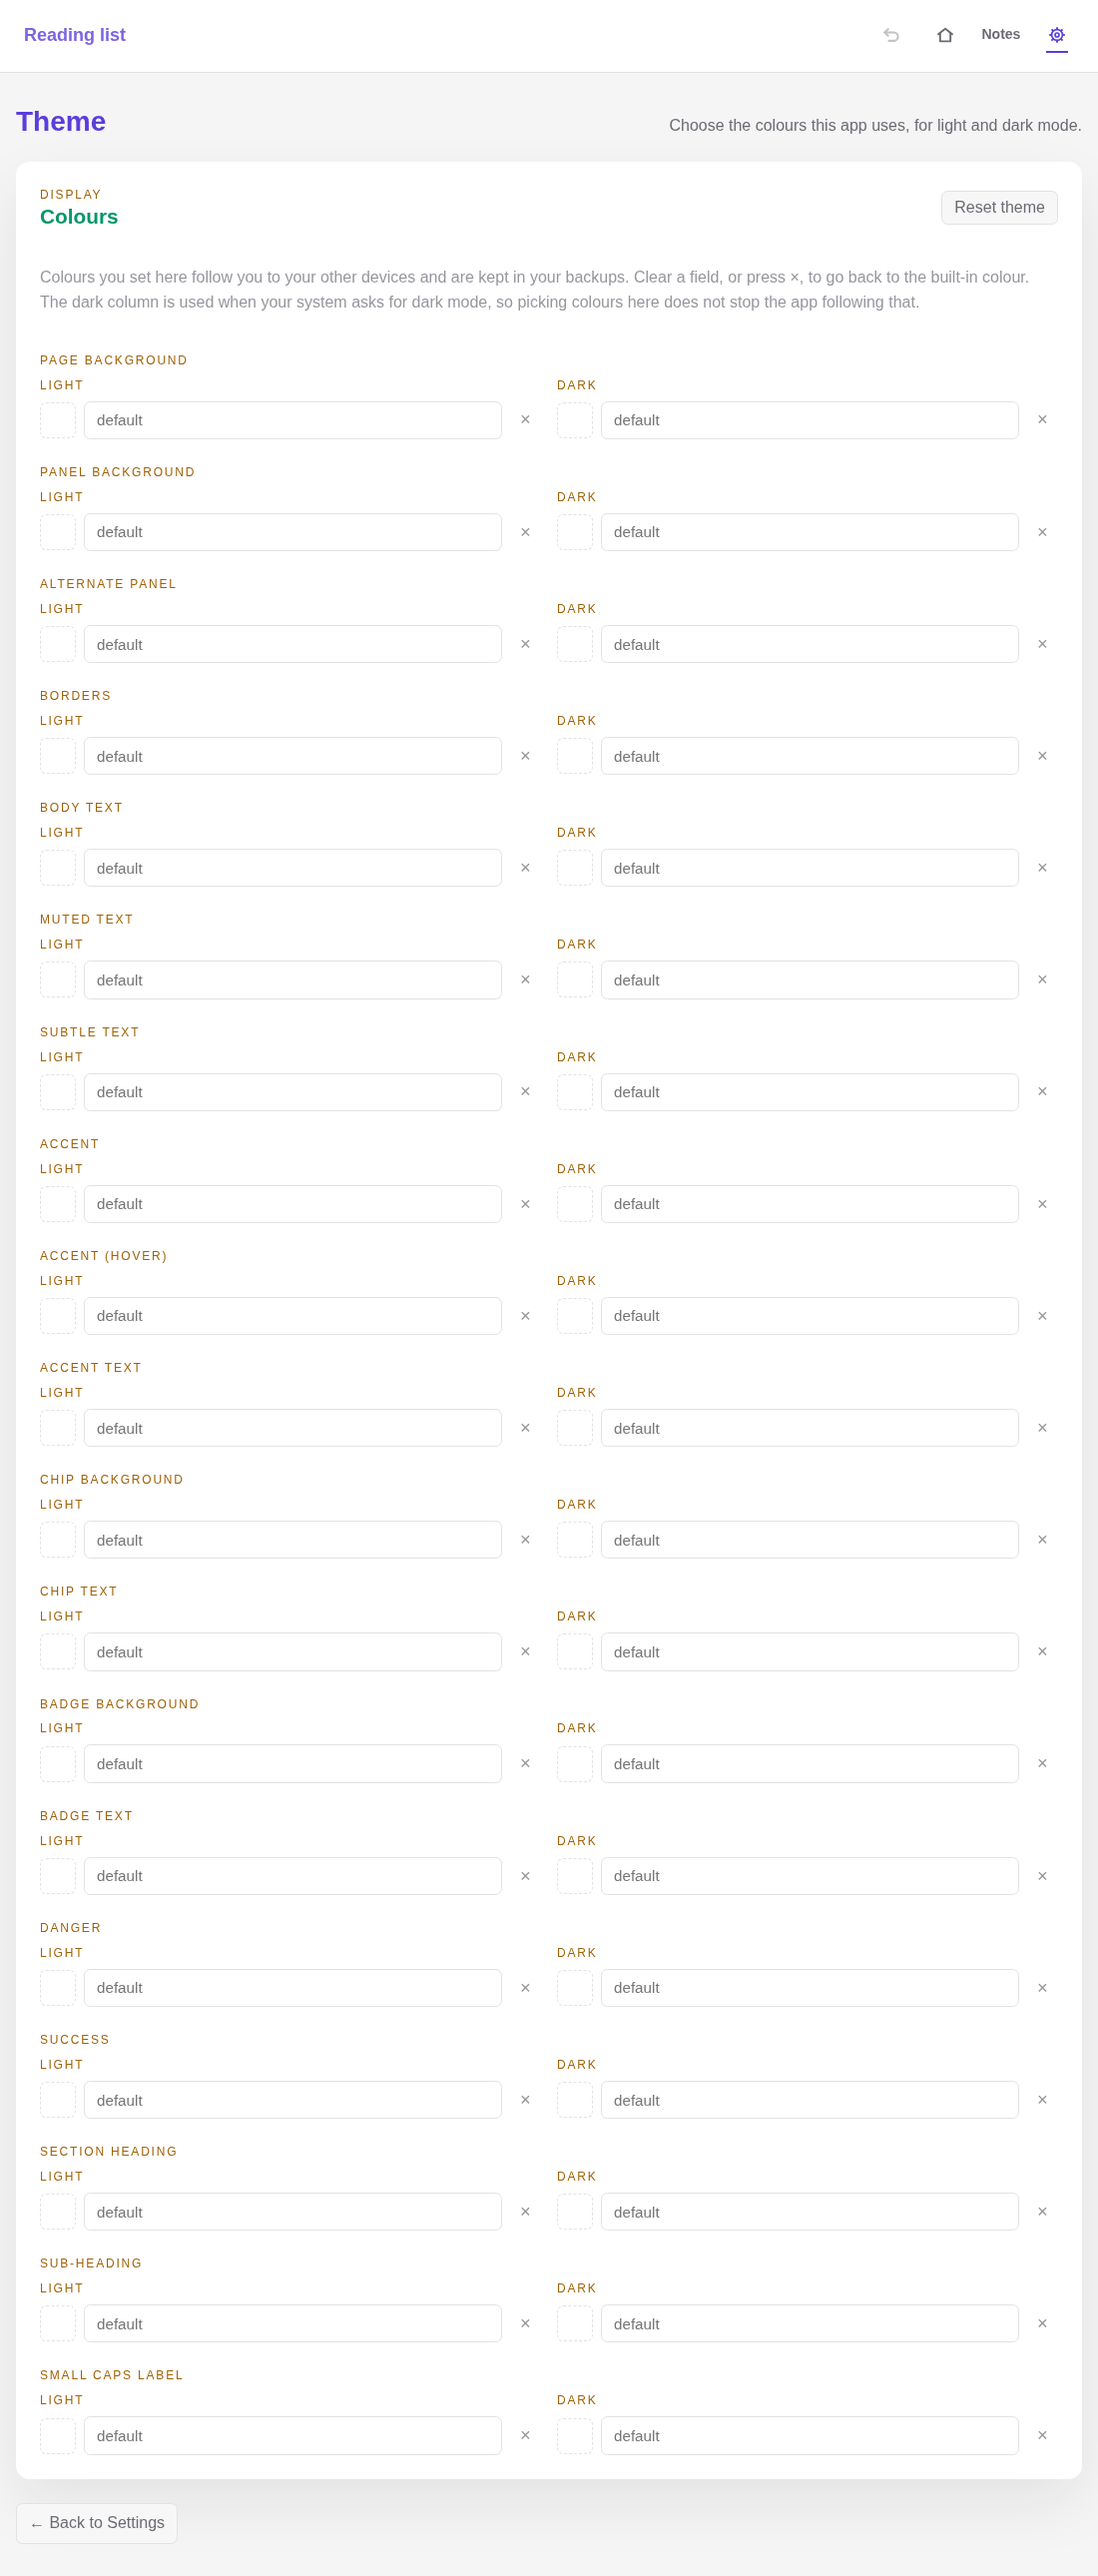
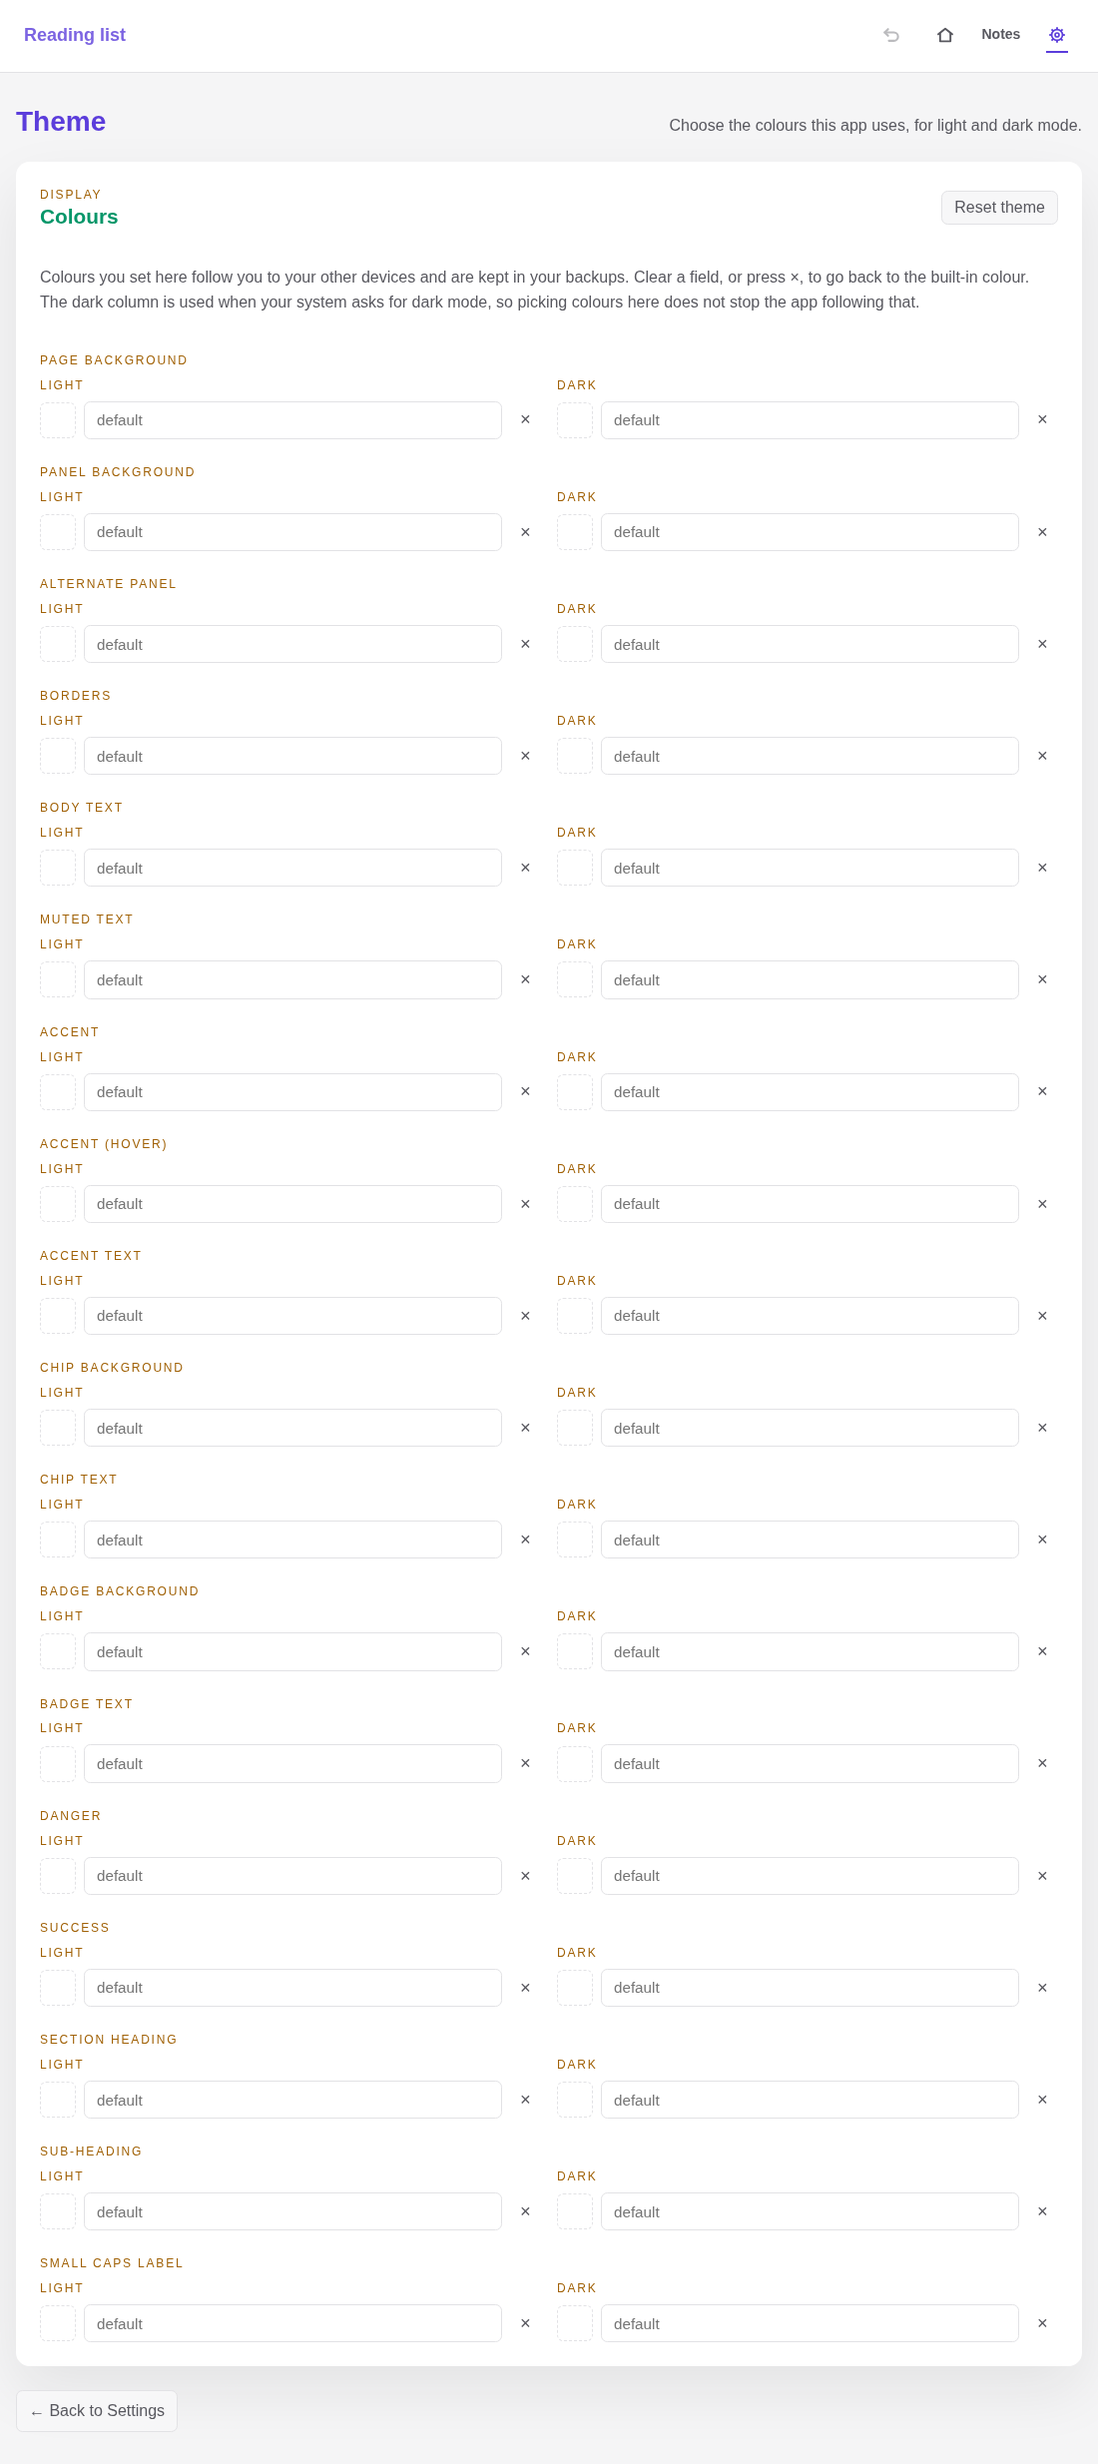
Make secondary text readable, and stop leaning on "paired"
Two things about the same body text.

**Contrast.** `.helper-text` — which carries every explanatory paragraph and
warning in Settings — was painted in `text-subtle`, the dimmest of the three
text roles, at 2.94:1 in light and 2.71:1 in dark. WCAG AA for body text is
4.5:1, so it failed outright, and it was being used for paragraphs rather than
the incidental hints that colour was presumably chosen for.

`text-subtle` and `text-muted` also described the same idea in two words. They
are now one role. Everything that used subtle uses muted, and muted is retuned
to #58585f and #c6c6cd: 7.06:1 and 7.08:1 on a panel, with no pairing anywhere
falling below 6.4:1. Nineteen colour roles become eighteen.

The orphaned `themeColorTextSubtle*` fields are gone from the ShEx source and
the generated ORM artifacts. Regenerating alone was verified to produce no diff
first, so those 38 deletions are the removal and nothing else. A value someone
had already stored for that role is simply no longer read.

The 2.5:1 floor stays, but its rationale no longer refers to the role that has
gone: it read as "deliberately below the built-in text-subtle (2.69:1)", which
implied the defaults were meant to sit near it. It guards against the
unreadable; it is not a readability standard, and the defaults now clear 7:1.
The sweep also gained text-muted against surface-alt, which it is painted on
since the buttons were shaded.

**Wording.** The datalets intro opened by requiring two terms it never
[…]

diff --git a/src/utils/themeContrast.ts b/src/utils/themeContrast.ts
@@ -4,11 +4,10 @@
  *
  * This is a floor, not a standard. It exists to stop the one catastrophic
  * case - text the same colour as what it sits on, which leaves nothing on
- * screen to fix it with - and otherwise leaves the choice alone. The built-in
- * `text-subtle` sits at 2.69:1 on its background, so anything stricter would
- * rewrite the shipped design the moment the app loaded; the floor is set below
- * that deliberately and `themeContrast.test.ts` asserts every default clears
- * it.
+ * screen to fix it with - and otherwise leaves the choice alone. It is not a
+ * readability standard and must not be mistaken for one: the shipped defaults
+ * clear 7:1, and this only decides how far someone may go when overriding
+ * them. `themeContrast.test.ts` asserts every default clears it.
  */
 
 import { THEME_COLOR_ROLES, type ThemeColorRole, type ThemeScheme } from "./themeTokens";
@@ -25,7 +24,6 @@ const READABILITY_PAIRS: ReadonlyArray<readonly [ThemeColorRole, readonly ThemeC
   // label is text-muted. Before the buttons were shaded, surface-alt carried
   // no text at all and was decorative.
   ["text-muted", ["bg", "surface", "surface-alt"]],
-  ["text-subtle", ["bg", "surface"]],
   ["accent-text", ["bg", "surface"]],
   ["danger", ["bg", "surface"]],
   ["success", ["bg", "surface"]],
@@ -50,8 +48,7 @@ export const THEME_DEFAULTS: Record<ThemeScheme, Record<ThemeColorRole, string>>
     "surface-alt": "#f7f7f8",
     "border": "#e2e2e5",
     "text": "#18181b",
-    "text-muted": "#6b6b72",
-    "text-subtle": "#96969e",
+    "text-muted": "#58585f",
     "accent": "#6d4de6",
     "accent-hover": "#5b3ddb",
     "accent-text": "#5b3ddb",
@@ -71,8 +68,7 @@ export const THEME_DEFAULTS: Record<ThemeScheme, Record<ThemeColorRole, string>>
     "surface-alt": "#3b3c44",
     "border": "#4b4c55",
     "text": "#f0f0f2",
-    "text-muted": "#a3a3ab",
-    "text-subtle": "#77777f",
+    "text-muted": "#c6c6cd",
     "accent": "#6f56d1",
     "accent-hover": "#7d66db",
     "accent-text": "#b9a6fb",

diff --git a/src/styles/global.css b/src/styles/global.css
@@ -51,8 +51,7 @@
     --color-surface-alt: #f7f7f8;
     --color-border: #e2e2e5;
     --color-text: #18181b;
-    --color-text-muted: #6b6b72;
-    --color-text-subtle: #96969e;
+    --color-text-muted: #58585f;
     --color-accent: #6d4de6;
     --color-accent-hover: #5b3ddb;
     --color-accent-text: #5b3ddb;
@@ -81,8 +80,7 @@
         --color-surface-alt: #3b3c44;
         --color-border: #4b4c55;
         --color-text: #f0f0f2;
-        --color-text-muted: #a3a3ab;
-        --color-text-subtle: #77777f;
+        --color-text-muted: #c6c6cd;
         --color-accent: #6f56d1;
         --color-accent-hover: #7d66db;
         --color-accent-text: #b9a6fb;
@@ -624,7 +622,7 @@ a {
 }
 
 .helper-text {
-    color: var(--color-text-subtle);
+    color: var(--color-text-muted);
 }
 
 .description {
@@ -718,7 +716,7 @@ a {
 .secondary-btn:hover:not(:disabled) {
     background: var(--color-border);
     color: var(--color-text);
-    border-color: var(--color-text-subtle);
+    border-color: var(--color-text-muted);
 }
 
 .secondary-btn:disabled {
@@ -833,7 +831,7 @@ a {
     width: 2.2rem;
     height: 2.2rem;
     background: transparent;
-    color: var(--color-text-subtle);
+    color: var(--color-text-muted);
 }
 
 .icon-btn-quiet:hover {
@@ -851,7 +849,7 @@ a {
    hovered, then tinted with the danger color rather than filled solid. */
 .icon-btn-danger {
     background: transparent;
-    color: var(--color-text-subtle);
+    color: var(--color-text-muted);
 }
 
 .icon-btn-danger:hover {
@@ -921,7 +919,7 @@ select:focus-visible {
     width: 1.3rem;
     height: 1.3rem;
     margin-top: 0.2rem;
-    border: 2px solid var(--color-text-subtle);
+    border: 2px solid var(--color-text-muted);
     border-radius: 0.3rem;
     background-color: var(--color-surface);
     background-repeat: no-repeat;

diff --git a/server/test/themeContrast.test.ts b/server/test/themeContrast.test.ts
@@ -59,9 +59,7 @@ test("every colour the interface paints with is offered to the user", () => {
 });
 
 test("every built-in pairing already clears the floor", () => {
-  // If it did not, the app would rewrite its own palette on first load. This
-  // is what fixes the floor below the built-in text-subtle rather than at some
-  // rounder number.
+  // If it did not, the app would rewrite its own palette on first load.
   for (const scheme of THEME_SCHEMES) {
     const { adjusted } = enforceContrast(scheme, {});
     assert.deepEqual([...adjusted], [], `${scheme} defaults should need no correction`);
@@ -147,8 +145,7 @@ test("a background moved on a foreground's behalf still reaches the stylesheet",
 function worstPairRatio(colors: Record<string, string>): number {
   const pairs: Array<[string, string]> = [
     ["text", "bg"], ["text", "surface"],
-    ["text-muted", "bg"], ["text-muted", "surface"],
-    ["text-subtle", "bg"], ["text-subtle", "surface"],
+    ["text-muted", "bg"], ["text-muted", "surface"], ["text-muted", "surface-alt"],
     ["accent-text", "bg"], ["accent-text", "surface"],
     ["danger", "bg"], ["danger", "surface"],
     ["success", "bg"], ["success", "surface"],

diff --git a/tests/datalets.spec.ts b/tests/datalets.spec.ts
@@ -115,7 +115,7 @@ test("an unpaired datalet cannot gain a second one, and says why", async ({ page
   // being left has to be recoverable from somewhere.
   await seedDatalets(page, { activeId: "local", entries: [{ id: "local" }] });
   await page.goto("/settings/datalets");
-  await expect(page.getByText(/not paired, so there is no copy anywhere else/)).toBeVisible();
+  await expect(page.getByText(/only in this browser, so there is no copy anywhere else/)).toBeVisible();
   await expect(page.getByRole("button", { name: "Start an empty one" })).toBeDisabled();
 });
 
@@ -192,7 +192,7 @@ test("an unpaired datalet refuses to be left, because nothing else holds it", as
     activeId: "local", entries: [{ id: "local" }, { id: "b", vault: vaultB }],
   });
   await page.goto("/settings/datalets");
-  await expect(page.getByText(/not paired, so there is no copy anywhere else/)).toBeVisible();
+  await expect(page.getByText(/only in this browser, so there is no copy anywhere else/)).toBeVisible();
   await expect(page.getByRole("button", { name: "Open" })).toBeDisabled();
 });
 

diff --git a/src/components/DataletSettings.tsx b/src/components/DataletSettings.tsx
@@ -284,10 +284,10 @@ export function DataletSettings() {
         </div>
       </div>
       <p className="helper-text">
-        Each datalet is a separate set of records, schemas and screens. One is open at a
-        time; the others live in their vaults until you open them. Because only the open
-        one is held in this browser, every datalet you keep has to be paired — a datalet
-        with no vault has no other copy to come back from.
+        Each datalet is a separate set of records, schemas and screens. Only the one you
+        have open is kept in this browser — the rest are stored on the sync server until
+        you open them. A datalet that has never synced has no copy anywhere else, so
+        syncing is what makes it safe to keep more than one.
       </p>
       {!leaving.ok && <p className="helper-text danger-text">{leaving.message}</p>}
       {error && <p className="danger-text" role="alert">{error}</p>}

diff --git a/src/shapes/orm/settingsShapes.schema.ts b/src/shapes/orm/settingsShapes.schema.ts
@@ -172,28 +172,6 @@ export const settingsShapesSchema: Schema = {
         ],
         maxCardinality: 1,
         minCardinality: 0,
-        iri: "did:ng:z:themeColorTextSubtleLight",
-        readablePredicate: "themeColorTextSubtleLight",
-      },
-      {
-        dataTypes: [
-          {
-            valType: "string",
-          },
-        ],
-        maxCardinality: 1,
-        minCardinality: 0,
-        iri: "did:ng:z:themeColorTextSubtleDark",
-        readablePredicate: "themeColorTextSubtleDark",
-      },
-      {
-        dataTypes: [
-          {
-            valType: "string",
-          },
-        ],
-        maxCardinality: 1,
-        minCardinality: 0,
         iri: "did:ng:z:themeColorAccentLight",
         readablePredicate: "themeColorAccentLight",
       },

diff --git a/src/shapes/orm/settingsShapes.typings.ts b/src/shapes/orm/settingsShapes.typings.ts
@@ -101,18 +101,6 @@ export interface Settings {
    */
   themeColorTextMutedDark?: string;
   /**
-   * --color-text-subtle in the light palette; omitted uses the stylesheet default
-   *
-   * Original IRI: did:ng:z:themeColorTextSubtleLight
-   */
-  themeColorTextSubtleLight?: string;
-  /**
-   * --color-text-subtle in the dark palette; omitted uses the stylesheet default
-   *
-   * Original IRI: did:ng:z:themeColorTextSubtleDark
-   */
-  themeColorTextSubtleDark?: string;
-  /**
    * --color-accent in the light palette; omitted uses the stylesheet default
    *
    * Original IRI: did:ng:z:themeColorAccentLight

diff --git a/src/utils/dataletSwitch.ts b/src/utils/dataletSwitch.ts
@@ -66,8 +66,8 @@ export function canLeaveActiveDatalet(): SwitchCheck {
       ok: false,
       reason: "unpaired",
       message:
-        "This datalet is not paired, so there is no copy anywhere else. Pair it before "
-        + "adding or opening another, or its records would be lost.",
+        "This datalet is only in this browser, so there is no copy anywhere else. Set up "
+        + "sync for it before adding or opening another, or its records would be lost.",
     };
   }
   const pending = pendingOutboxCount(active.vault.vaultId);

diff --git a/src/pages/ThemePage.tsx b/src/pages/ThemePage.tsx
@@ -28,7 +28,6 @@ const ROLE_LABELS: Record<ThemeColorRole, string> = {
   "border": "Borders",
   "text": "Body text",
   "text-muted": "Muted text",
-  "text-subtle": "Subtle text",
   "accent": "Accent",
   "accent-hover": "Accent (hover)",
   "accent-text": "Accent text",

diff --git a/src/utils/themeTokens.ts b/src/utils/themeTokens.ts
@@ -22,7 +22,6 @@ export const THEME_COLOR_ROLES = [
   "border",
   "text",
   "text-muted",
-  "text-subtle",
   "accent",
   "accent-hover",
   "accent-text",

diff --git a/docs/theme-in-graph-plan.md b/docs/theme-in-graph-plan.md
@@ -89,7 +89,7 @@ browser actually blocks a cross-origin font.
 A fixed list of token names a theme may set, and a validator for values.
 
 - **Colour roles only in v1** — roughly fourteen: `bg`, `surface`,
-  `surface-alt`, `border`, `text`, `text-muted`, `text-subtle`, `accent`,
+  `surface-alt`, `border`, `text`, `text-muted`, `accent`,
   `accent-hover`, `accent-text`, `danger`, `success`, `chip`, `badge`.
   Dimension tokens (spacing, radii, type scale) are deliberately out of v1;
   they change layout rather than appearance and are easy to add later.
@@ -206,7 +206,7 @@ existing whole-theme reset.
 **The contrast floor** stops a choice making the app unreadable while it is
 being made — the case where nothing legible is left on screen to fix it with.
 One threshold, 2.5:1, on text-on-background pairs only; borders and fills are
-decorative and untouched. It is set below the built-in `text-subtle` (2.69:1)
+decorative and untouched. It is set below every built-in text pairing
 on purpose, because a stricter floor would rewrite the shipped palette on first
 load, and a test asserts every default clears its own gate. The foreground
 moves first, since a background is read against several foregrounds; a value

diff --git a/docs/architecture.md b/docs/architecture.md
@@ -276,9 +276,9 @@ language from stored data without matching an allowlist first.
 **A minimum contrast floor, applied at generation time.** A colour that would
 leave text lost against its background is moved apart before it reaches the
 stylesheet, so a choice cannot make the app unreadable while it is being made.
-The floor is 2.5:1 and is deliberately below the built-in `text-subtle`, which
-sits at 2.69:1 — anything stricter would rewrite the shipped palette on first
-load, and a test asserts every default clears its own gate. The foreground
+The floor is 2.5:1. It is a guard against the unreadable, not a readability
+standard: the shipped defaults clear 7:1, and the floor only bounds how far an
+override may go. A test asserts every default clears its own gate. The foreground
 moves first, because a background is read against several foregrounds while a
 foreground is read against one; a value already at 00 or ff cannot be pushed
 further without inverting it into something plainly unchosen, so there the
